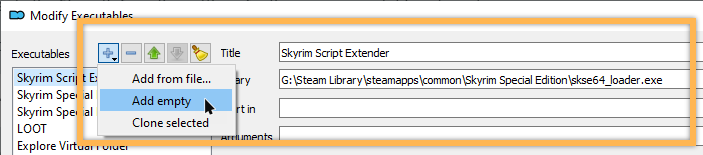
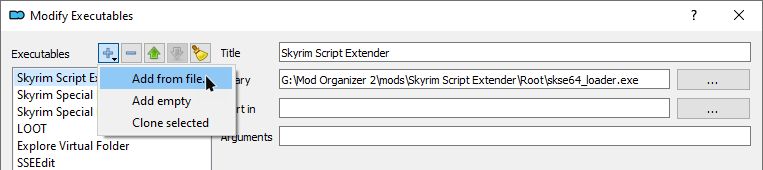
BG Update Modules 1-4

diff --git a/content/bg/core-module/step3.md b/content/bg/core-module/step3.md
@@ -3,17 +3,15 @@ title: "Step 3"
 weight: 3
 type: docs
 description: >
-  Step 3.
+  Plugin structure: Dependencies, records, layers, and Form IDs. SSEEdit.
 ---
 
 {{< alert color="info" title="Summary" >}}
-> - Essential Mods{{< /alert >}}
-
-In the previous step we learned that there are two kinds of mod files: Plugins and assets. The Core Module mostly covers plugins.
-
-We will start by installing an example mod.
+> This step covers the basic architecture of Bethesda plugins and how they can be modified.{{< /alert >}}
 
 ## Unofficial Skyrim Special Edition Patch
+
+We will start by installing an example mod.
 
 The **Unofficial Skyrim Special Edition Patch** (USSEP) is an ambitious project aiming to squash the various bugs and inconsistencies never addressed by Bethesda. It is probably the single most popular Skyrim mod in existence.
 
@@ -43,6 +41,8 @@ After enabling the USSEP, a new plugin will appear in the **Plugins** tab in the
 ### Dependencies
 
 By adding one plugin as a **master** to another plugin, you can modify its contents. However, the dependent plugin will now require its master to function. All plugins require at least **Skyrim.esm** because most game data is defined in that plugin.
+
+{{< alert color="info">}}Because all mods require one or more of the five vanilla ESMs they are known as the **official master files**.{{< /alert >}}
 
 You can view a plugin's masters by hovering over it in the MO2 UI:
 
@@ -251,5 +251,131 @@ Theoretically we could simply right-click and delete the book's base record. How
 
 Instead, it is much better to leave the base record in place and disable the REFR record.
 
+## Finding the REFR
 
-*TBC*
+One way to find the REFR record would be to search for the Ref Form ID like we did before. However, there is another way of quickly tracking down referenced records:
+
+- With the **USSEPUnwantedEffectsRemoverBook** record selected, click the **Referenced By (1)** tab at the bottom of the right pane.
+- Double-click the one REFR record listed here to immediately switch to it.
+
+![Find REFR](/Pictures/bg/core-module/find-refr-records.png)
+
+There we go. Under the blue highlight (because it is currently selected), the record in the left pane has no coloured background (meaning it is new and not overwritten) and in *italics* (meaning it is injected):
+
+![Find REFR](/Pictures/bg/core-module/ussep-book-ref.png)
+
+Under **NAME - Base** in the right pane, you can see the full name of the book record (consisting of EDID, Name, Signature, and BaseID). If you scroll further down, there is the **DATA - Position/Rotation** section which defines the book's exact placement. This would best be edited in the Creation Kit where you have a visual preview.
+
+Various other parameters are greyed out because they are unused.
+
+### Creating a new layer
+
+While it is entirely possible to edit the REFR record directly, it would mean that you would have to do it all over again whenever the USSEP updated. For any edit like this (and later on for patches) I highly recommend creating new plugins instead of directly editing the mod(s) in question. It is also much easier to keep track of custom changes if they are in separate plugins.
+
+- Right-click the **Unofficial Skyrim Special Edition Patch.esp** column in the right pane.
+- Select **Copy as override into ...** to copy the layer into another plugin.
+
+![Create Layer](/Pictures/bg/core-module/sseedit-create-layer.png)
+
+The [warning window](/Pictures/bg/core-module/sseedit-warning-window.png) that now appears will always show up the first time you edit anything in an SSEEdit session. It can be turned off and I recommend doing that eventually.
+
+{{< alert color="warning">}}When making changes, it is important to know that **there is no "Undo" button in SSEEdit**. If you make a mistake, you need to restore the previous state manually or close without saving your changes and start over. It is possible to save manually during a longer session.{{< /alert >}}
+
+- Click **Yes I'm absolutely sure** to acknowledge the warning and proceed.
+- A new window will pop up with various different plugins that the record can be copied into.
+- Check the **\<new file>.esp** option and click **OK**.
+- Enter **Disable USSEP Book** as the name of the new plugin and click **OK** once more.
+
+![New Plugin](/Pictures/bg/core-module/sseedit-new-plugin.png)
+
+A new plugin was created and will appear at the bottom of the plugin list in the left pane.
+
+Scroll down and expand its **Cell** records until you find the REFR record added by the USSEP. As you can see it is highlighted in green since the original record was overwritten now:
+
+![Book ITM](/Pictures/bg/core-module/ussep-book-itm.png)
+
+### Identical to Master
+
+In the new plugin, the font colour is grey instead of purple. **That means the record is an ITM, or Identical to Master.**
+
+The master for the REFR record is **Update.esm** (because it is an injected form) and the master for the book referenced in the REFR record is the USSEP (because the book record originates in the USSEP). For that reason, both the USSEP and Update.esm are required. Skyrim.esm is also added as a master to any new plugin.
+
+You can see the full list of masters if you click on **File Header**.
+
+![Book ITM](/Pictures/bg/core-module/ussep-book-masters.png)
+
+Because nothing has (yet) been changed in the new layer, it is still *identical to all its masters* and therefore an **ITM**. ITMs are often (but not always) unnecessary and potentially disruptive (because they can override and negate other mods' changes) which is why they usually merit further investigation.
+
+This particular record will, of course, be modified.
+
+### Adding a record flag
+
+In order to disable the book ingame, we can use a **Record Flag**. Scroll up to the top of the record in the right pane to find the **Record Flags** line which is currently empty.
+
+- Right-click the empty space next to **Record Flags** and select **Edit**.
+
+![Add Record Flag](/Pictures/bg/core-module/sseedit-add-record-flag.png)
+
+A new window will pop up with a list of options that you can check. Near the top of that list is a **Delete** option which is not the one you should choose. Flagging records as deleted will cause crashes if they are referenced by other records and it is considered best practice to always use the **Initially Disabled** flag instead.
+
+{{< alert color="info">}}**Initially Disabled** means a record can potentially be re-enabled by a script later on. For example, certain coffins are flagged as initially disabled. If an NPC dies, their coffin in the Hall of the Dead of their home city will be enabled and thus become visible to the player.{{< /alert >}}
+
+- Check the box for **Initially Disabled** and click **OK**.
+
+![Disable Flag](/Pictures/bg/core-module/initially-disabled-flag.png)
+
+### Saving your changes
+
+Saving changes made in SSEEdit is a slightly unintuitive process: You actually have to *close* the tool to be prompted to save what you changed (unless you save manually).
+
+- Close **SSEEdit** (click the red X in the upper right corner).
+- A window with all plugins edited in that session will pop up. Only the **Disable USSEP Book.esp** should be listed here.
+- Make sure that the new plugin we created is checked and click **OK**.
+
+## The Overwrite
+
+Whenever a file is generated by a tool that is run through Mod Organizer 2, it will 'catch' these files in a folder called the ***Overwrite***. That, as it happens, is where our new plugin ended up, and it is why [a warning popped up in MO2](/Pictures/bg/core-module/overwrite-warning.png).
+
+The ***Overwrite*** is located at the bottom of the mod folder which means its contents will <u>always</u> overwrite the rest of the mod order (hence the name). Because it always overwrites, the ***Overwrite*** should <u>never</u> be more than a temporary location that is cleaned up as soon as possible.
+
+{{< alert color="info">}}The actual location of the ***Overwrite*** accessible through the MO2 UI is `\Mod Organizer 2\overwrite\`.{{< /alert >}}
+
+- Double-click the ***Overwrite*** at the bottom of your mod order to open it.
+
+![Overwrite Contents](/Pictures/bg/core-module/overwrite-contents.png)
+
+### Managing Overwrite Files
+
+Since we only have a single file in the ***Overwrite***, we can very easily convert its content into a new mod:
+
+- Close the ***Overwrite*** window again.
+- Right-click the ***Overwrite*** and select **Create Mod**.
+- Name it **Disable USSEP Book** and click **OK**.
+- Move your new mod directly below the **Unofficial Skyrim Special Edition Patch** and activate it.
+
+![Overwrite Contents](/Pictures/bg/core-module/overwrite-create-mod.png)
+
+## Ingame Test
+
+Now that we have created our first plugin tweak and cleaned everything up, it is time to jump in-game again to check if the plugin works as intended.
+
+- Launch the **Skyrim Script Extender** through Mod Organizer 2.
+- Select **Continue** in the main menu to load your previously created save.
+
+And ... gone!
+
+![Overwrite Contents](/Pictures/bg/core-module/ussep-book-removed.jpg)
+
+### Conclusion
+
+You may wonder why we went through the process of digging through SSEEdit to disable a completely inconsequential feature before we even talked about load order and plugin types.
+
+**This step was never about the book.**
+
+With everything we learned about plugins, dependencies, and layers, **load order** should be more than a theoretical concept now. It is a tangible thing that you have seen in action. You looked at records and edits, you created your own overwriting layer to make a change, and you saw the in-game effect.
+
+When we discuss plugin types and load order in the next step, these concepts will hopefully make more sense with the knowledge on plugin structure that we have now gained.
+
+---
+
+#### Please continue with [Step 4](/bg/core-module/step4/).

diff --git a/content/bg/core-module/step4.md b/content/bg/core-module/step4.md
@@ -1,0 +1,152 @@
+---
+title: "Step 4"
+weight: 4
+type: docs
+description: >
+  Playthrough.
+---
+
+{{< alert color="info" title="Summary" >}}
+> This step covers {{< /alert >}}
+
+## Plugin Types
+
+You may have noticed that we have plugins with three different extensions in our load order.
+
+- Skyrim.**esm**
+- ccBGSSSE037-Curios.**esl**
+- Unofficial Skyrim Special Edition Patch.**esp**
+
+{{< alert color="info" >}}**ESP**, **ESM**, and **ESL** files are Bethesda plugins. They share the same basic structure of records with Form IDs arranged in layers and overwrite each other according to their load order.{{< /alert >}}
+
+There are, however, notable differences between them which we will discuss in this step.
+
+## ESP and ESM Plugins
+
+**Elder Scrolls Plugins** (ESP) like our previously created **Disable USSEP Book.esp** are the most common type of plugin. If you create a mod in the Creation Kit, it will be exported in this format and most plugin-based mods use a simple ESP. In the load order in MO2 they will appear without any text decoration (like bold or italic).
+
+**Elder Scrolls Master** plugins (ESM) appear in ***bold italics*** in Mod Organizer 2 - see, for example, the official master files. They will always load above ESPs and therefore ESPs will always overwrite them in case of conflicts. If you try to swap the load order of the USSEP and our modification for it in MO2 you will notice that you cannot place an ESP above an ESM.
+
+### Plugin Limit
+
+**The total number of ESM and ESP plugins in your load order cannot exceed 256 plugins.**
+
+This is due to the hexadecimal system used to define them: Each plugin's **Index** (the first two characters in their form ID) is made up of a combination of two numbers and letters which in turn is based on their load order. The hexadecimal system has 16 unique characters and there are exactly 256 possible combinations for two characters from 00 to FF (see table below).
+
+The hexadecimal **FF** is the decimal **255**, so the maximum amount of plugins from 0 (00) to 255 (FF) is 256.
+
+![Hexadecimal Chart](/Pictures/bg/core-module/hexadecimalchart.png)
+
+In Skyrim LE the plugin limit could be overcome by merging the records of multiple plugins into a single one.
+
+In Skyrim SE plugin merging has become redundant for all but the largest of load orders thanks to the new ESL format of plugins introduced with the 2016 engine update.
+
+## ESL Plugins
+
+**Elder Scrolls Light** plugins (ESL) were initially added for the Creation Club (Fallout 4 and Skyrim SE) and they were a game-changer for the modding scene because the plugin limit for ESLs is about ten times that as for ESPs and ESMs.
+
+All ESL plugins have the index `FE:xxx`. The hexadecimal FE is the decimal 254, so **all ESL plugins load in plugin slot 254.**
+
+This is possible because their index was extended to the third, fourth, and fifth character in their eight character form ID: An ESL's index could be `FE:000` or `FE:08F`. Thus, **the limit for ESLs is a whopping 4096 plugins** - which is why we no longer need to merge plugins.
+
+### Plugin Capacity
+
+The downside of ESLs is that they can store fewer records.
+
+Remember that each record must have a unique Form ID. ESLs only have three digits left for a combination of the 16 hexadecimal characters whereas ESPs and ESMs have six digits. This means every ESL can only store 4096 unique Form IDs of which the first 2048 are reserved by the engine.
+
+The remaining 2048 slots are still more than enough for small- to medium-size mods. Many separate ESL plugins are infinitely easier to handle than a few big plugin merges (imagine having many small drawers for screws of different types and sizes instead of dumping all of them into a single big drawer).
+
+Additionally, this limit only affects <u>new</u> records, i.e., records defined in the ESL plugin. There is no limit on how many records defined in *other* plugins an ESL can hold. Many mods, especially patches, function mostly by editing existing (vanilla or mod-added) records and adding few or no new records of their own. These types of plugins are especially suited to being ESL-ified.
+
+{{< alert color="info" >}}**Summary:** You can install up to <u>4096</u> ESL plugins which can contain up to <u>2048</u> new Form IDs each.{{< /alert >}}
+
+## Plugin Flags
+
+We learned that **ESM** plugins are distinguished in the load order by being displayed in ***bold italics***.
+
+But here is something strange: The **Unofficial Skyrim Special Edition Patch.esp** is displayed in ***bold italics*** in our MO2 load order tab when it actually has the ESP file extension.
+
+So, is it an ESM or an ESP? Actually, it is both. This is where **Plugin Flags** come into play. 
+
+{{< alert color="info" >}}Plugins can either be a full ESP, ESL, or ESM, **OR** they can be any combination of the three.{{< /alert >}}
+
+That sounds a little confusing, so let's break it down.
+
+### ESM-ESL
+
+Imagine you created a mod that is a resource to be used by other mods: It just contains a few keywords, maybe a dozen records. You can easily use the ESL format for this plugin.
+
+However, your resource is also a **master** to various dependent plugins which should be lower in the mod order, so preferably your plugin should load very early. It therefore makes sense to flag it as an ESM to automatically place it in the ESM space at the top of the load order.
+
+The result is an **ESM-ESL** which will show up as ***Example.esl*** in the load order - like ***ccBGSSSE037-Curios.esl***.
+
+### ESM-ESP
+
+Now imagine your example mod is definitely one that should load very early to be overwritten by other mods but you have far too many original Form IDs to use the ESL format.
+
+In that case, you can either opt for a full ESM or an ESP that is flagged as an ESM, that is, an **ESM-ESP** - like the ***Unofficial Skyrim Special Edition Patch.esp***.
+
+{{< alert color="info" >}}To my knowledge, there is no functional difference between a regular ESM and an ESM-ESP.{{< /alert >}}
+
+### ESP-ESL
+
+Finally, you may have a plugin that is just fine to load in ESP space because it is not intended as a sort of baseline or framework. If it does not contain many new Form IDs, you can usually flag the plugin as an ESL, turning it into an **ESP-ESL** or **ESP-FE** (because ESLs always have an Index beginning with FE).
+
+Which plugins can be flagged as ESL and how this can be done will be discussed in the following steps.
+
+## Creating an ESL
+
+Should you ever find yourself reaching the ESP/ESM plugin limit, you will no longer be able to launch the game - try to avoid that.
+
+You can track your plugins via the neat little counter above your load order (hover for details):
+
+![Plugin Counter](/Pictures/bg/core-module/plugin-counter.png)
+
+With 9 plugins currently counting toward the 256 hard limit, we are in no danger of breaking the game anytime soon. Then again, load orders have the tendency to balloon to obscene dimensions so it is tends to be a good idea to ESL-ify as many plugins as possible.
+
+{{< alert color="info" >}}Plugins with few or no original records, like patches that mostly modify other mods, are best suited to the ESL format.{{< /alert >}}
+
+Hey, that sounds like our **Disable USSEP Book.esp** which only modifies a single reference.
+
+- Load up your load order in SSEEdit.
+
+### Plugin Header
+
+Plugin Type is determined by file extension and plugin flags. You can see the file extension in the left pane and plugin flag(s) in the **Plugin Header** which is what you see when you select a plugin in SSEEdit.
+
+Below, you can see the **Plugin Header** of our **Disable USSEP Book.esp**. It is a bog-standard ESP, so there are no plugin flags (or Record Flags as they are called here).
+
+![ESP Plugin Header](/Pictures/bg/core-module/esp-plugin-header.png)
+
+If you select the **Unofficial Skyrim Special Edition Patch.esp**, you will see that it is flagged as an **ESM**.
+
+Two of the CC plugins, **ccBGSSSE037-Curios.esl** and **ccQDRSSE001-SurvivalMode.esl**, are additionally flagged as **ESLs**.
+
+### ESL-Flagging
+
+Going back to our **Disable USSEP Book.esp**, we can now simply turn it into an ESL (that is, an ESP-ESL because it still has the ESP file extension) by adding the flag.
+
+- In the **Plugin Header**, right-click the empty space under **Record Flags** and select **Edit**.
+- Confirm when the warning window pops up.
+- Check the box for **ESL** and click **OK**.
+- Close SSEEdit. Make sure **Disable USSEP Book.esp** is checked and click **OK**.
+
+![ESL Flag](/Pictures/bg/core-module/esl-flag-plugin.png)
+
+Back in MO2, our plugin now appears in *italics* in the load order and the little yellow icon 🟡 that appeared in the **Flags** column for the plugin confirms that it is ESL-flagged. You can also check this by hovering over it. And, of course, you can see the **FE** index.
+
+![ESL Flag](/Pictures/bg/core-module/esl-flag-mo2.png)
+
+## ESM Space and References
+
+A major differences between plugins in ESM and ESP space is how references are handled.
+
+{{< alert color="info" >}}Full ESLs load in ESM space, that is, they are forced to the top of the load order.{{< /alert >}}
+
+### Persistent vs Temporary
+
+There are two types of references:
+
+- **Temporary references** only load into memory when the player is close by and are unloaded when they are no longer needed.
+- **Persistent references** are always loaded into memory upon launching the game, regardless of player proximity.

diff --git a/content/bg/introduction/_index.md b/content/bg/introduction/_index.md
@@ -54,9 +54,11 @@ For example, if you are starting from scratch, take a look at the [Clean Install
 
 First, the ethos appeal: I have been modding Skyrim for over a decade, writing modding tutorials since 2017, and curating large Wabbajack lists since 2020. While I am nowhere near as knowledgable as the brightest minds in the community, I have picked up many tips and tricks over the years that I believe are valuable and worth sharing. I would also like to think that I have become quite efficient at breaking down complex processes into small steps that are easy to follow.
 
-{{< alert color="warning" >}}That being said, I am very thorough, perhaps obsessively so, in managing my setups. I like doing things *properly* and in a clean fashion, because it helps me orient myself and keep a good overview. When tinkering with some 2,000 separate mod folders in TPF I find this to be absolutely essential.{{< /alert >}}
+**That being said, I am very thorough, perhaps obsessively so, in managing my setups.** I like doing things *properly* and in a clean fashion, because it helps me orient myself and keep a good overview. When tinkering with some 2,000 separate mod folders in TPF I find this to be absolutely essential.
 
-This also means that I will be bringing a good amount of relatively minor steps and personal idiosyncrasies into my instructions. As such, they are often "How To Mod Skyrim Phoenix's Sometimes Unnecessarily Thorough Way" which is by no means the most efficient or objectively "best" way. Use your own brain, come up with your own little quirks and tricks, and take whatever you find helpful from my process, because my process is all I can offer you.
+This also means that I will be bringing a good amount of relatively minor steps and personal idiosyncrasies into my instructions. As such, they are often "How To Mod Skyrim Phoenix's Sometimes Unnecessarily Thorough Way" which is by no means the most efficient or objectively "best" way.
+
+**Use your own brain, come up with your own little quirks and tricks, and take whatever you find helpful from my process, because my process is all I can offer you.**
 
 ### Tool Preferences
 

diff --git a/content/bg/additional-modules/skyrim-script-extender.md b/content/bg/additional-modules/skyrim-script-extender.md
@@ -94,23 +94,12 @@ A minor disadvantage of adding SKSE in this fashion is that MO2 will not automat
 
 ![Open Executable Settings](/Pictures/bg/mo2-executables-settings.png)
 
-- Click the small blue plus icon and select **Add empty**.
-- Enter **Skyrim Script Extender** as the **Title**.
-
-For the **Binary** path you need to insert the file path that *will* be correct *after* running Root Builder (which is the root folder). Of course, the SKSE executable is not currently located there. That is why we need to do this manually.
-
-- For **Binary** enter `Drive:\path\to\root\skse64_loader.exe`.
-
-(You can copy & paste the file path from the settings for the game executables above.)
-
-For me, the file path is:
-
-```
-G:\Steam Library\steamapps\common\Skyrim Special Edition\skse64_loader.exe
-```
-
-- Optionally, move the new executable to the top of the list.
+- Click the small blue plus icon and select **Add from file**.
+- Navigate to `\Mod Organizer 2\mods\Skyrim Script Extender\Root\` and double-click the **skse64_loader.exe**.
+- (Optional) Rename the executable in MO2 to **Skyrim Script Extender** and move it to the top of the list.
 - Click **OK** to save your changes and close the window.
+
+{{< alert color="info" >}}The **Redirect** feature in **Root Builder** will automatically move an executable file from a mod folder into the root folder if it is launched through MO2. This is why we can simply point MO2 at the mod folder here.{{< /alert >}}
 
 ![SKSE Exec](/Pictures/bg/additional-modules/mo2-skse-executable.png)
 

diff --git a/content/bg/core-module/step2.md b/content/bg/core-module/step2.md
@@ -3,7 +3,7 @@ title: "Step 2"
 weight: 2
 type: docs
 description: >
-  Understanding folder structures and file management. Installing SKSE.
+  Folder structures and file management. Skyrim Script Extender.
 ---
 
 {{< alert color="info" title="Summary" >}}
@@ -28,6 +28,8 @@ This is your **root folder**. It contains the two executables: **SkyrimSE.exe**,
 The **data folder** is located inside the **root folder**. Open it now.
 
 The **data folder** contains all game files which are split into **plugins (ESMs)** and **archives (BSAs)**. There are five **ESMs** containing all game data and 18 **BSAs** containing all assets. They are used by the engine to build the game.
+
+{{< alert color="info">}}The five ESMs are also referred to as the **official master files**.{{< /alert >}}
 
 ![Data Folder](/Pictures/bg/core-module/skyrim-data-folder.png)
 

diff --git a/content/bg/core-module/step1.md b/content/bg/core-module/step1.md
@@ -3,7 +3,7 @@ title: "Step 1"
 weight: 1
 type: docs
 description: >
-  Setting up Skyrim SE and Mod Organizer 2.
+  Skyrim SE and MO2 setup for modding.
 ---
 
 {{< alert color="info" title="Summary" >}}
